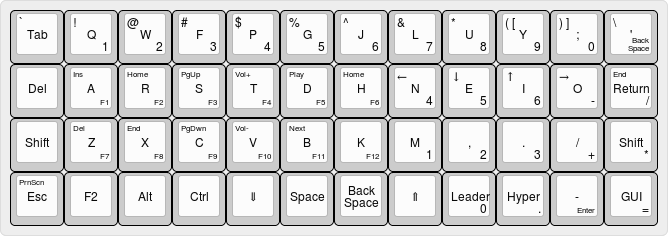
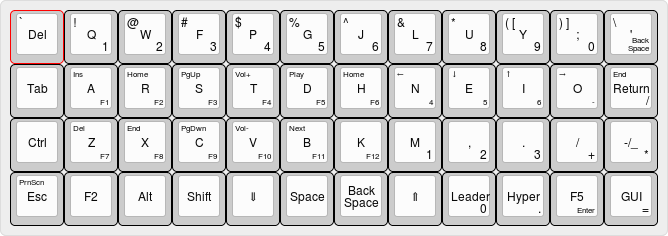
made more consitent with ergodox build.

diff --git a/keymap.c b/keymap.c
@@ -52,9 +52,11 @@ enum custom_keycodes{
 
 /* Lead Variables */
 
-const char USERNAME[80] = "joshua.bragge";
-const char DB[80] = "joshua.bragge.db";
-const char SVR[80] = "joshua.bragge.svr";
+const char JB[15] = "joshua.bragge";
+const char DB[20] = "joshua.bragge.db";
+const char SVR[20] = "joshua.bragge.svr";
+const char SCD[10] = "[SCD]";
+const char FROM[10] = "from:";
 
 #define LOWER MO(_LOWER)
 #define RAISE MO(_RAISE)
@@ -81,20 +83,20 @@ const uint16_t PROGMEM keymaps[][MATRIX_ROWS][MATRIX_COLS] = {
 
 /* Colemak
  * ,-----------------------------------------------------------------------------------.
- * | Tab  |   Q  |   W  |   F  |   P  |   G  |   J  |   L  |   U  |   Y  |  ;/: |  '   |
+ * | Del  |   Q  |   W  |   F  |   P  |   G  |   J  |   L  |   U  |   Y  |  ;/: |  '   |
  * |------+------+------+------+------+-------------+------+------+------+------+------|
- * | Del  |   A  |   R  |   S  |   T  |   D  |   H  |   N  |   E  |   I  |   O  |Enter |
+ * | Tab  |   A  |   R  |   S  |   T  |   D  |   H  |   N  |   E  |   I  |   O  |Enter |
  * |------+------+------+------+------+------|------+------+------+------+------+------|
- * |LShift|   Z  |   X  |   C  |   V  |   B  |   K  |   M  |   ,  |   .  |   /  |RShift|
+ * | Ctrl |   Z  |   X  |   C  |   V  |   B  |   K  |   M  |   ,  |   .  |   /  |  -/_ |
  * |------+------+------+------+------+------+------+------+------+------+------+------|
- * |Esc/F4|  F2  | Alt  | Ctrl |Lower |Space | Bksp |Raise | LEAD | HYPER|  -/_ | GUI  |
+ * |Esc/F4|  F2  | Alt  |LShift|Lower |Space | Bksp |Raise | LEAD | HYPER|  F5  | GUI  |
  * `-----------------------------------------------------------------------------------'
  */
 [_COLEMAK] = LAYOUT_planck_grid(
     KC_DEL,        KC_Q,    KC_W,    KC_F,    KC_P,    KC_G,    KC_J,    KC_L,    KC_U,    KC_Y,    TD(CT_COL), KC_QUOT,
     KC_TAB,        KC_A,    KC_R,    KC_S,    KC_T,    KC_D,    KC_H,    KC_N,    KC_E,    KC_I,    KC_O,    KC_ENT,
-    KC_LSFT,       KC_Z,    KC_X,    KC_C,    KC_V,    KC_B,    KC_K,    KC_M,    KC_COMM, KC_DOT,  KC_SLSH, KC_RSFT ,
-    TD(CT_ESCF4),  KC_F2, KC_LALT,  KC_LCTL, LOWER,   KC_SPACE,  KC_BSPC,  RAISE,   KC_LEAD, KC_HYPR, TD(CT_UNDER), KC_LGUI
+    KC_LCTL,       KC_Z,    KC_X,    KC_C,    KC_V,    KC_B,    KC_K,    KC_M,    KC_COMM, KC_DOT,  KC_SLSH, TD(CT_UNDER),
+    TD(CT_ESCF4),  KC_F2, KC_LALT,  KC_LSFT, LOWER,   KC_SPACE,  KC_BSPC,  RAISE,   KC_LEAD, KC_HYPR, KC_F5, KC_LGUI
 ),
 
 /* Dvorak
@@ -135,9 +137,9 @@ const uint16_t PROGMEM keymaps[][MATRIX_ROWS][MATRIX_COLS] = {
 
 /* Lower
  * ,-----------------------------------------------------------------------------------.
- * |      |   1  |   2  |   3  |   4  |   5  |   6  |   7  |   8  |   9  |   0  | Bksp |
+ * | Del  |   1  |   2  |   3  |   4  |   5  |   6  |   7  |   8  |   9  |   0  | Bksp |
  * |------+------+------+------+------+-------------+------+------+------+------+------|
- * | Del  |  F1  |  F2  |  F3  |  F4  |  F5  |  F6  |   4  |   5  |   6  |  -   |  /   |
+ * |      |  F1  |  F2  |  F3  |  F4  |  F5  |  F6  |   4  |   5  |   6  |  -   |  /   |
  * |------+------+------+------+------+------|------+------+------+------+------+------|
  * |      |  F7  |  F8  |  F9  |  F10 |  F11 |  F12 |   1  |   2  |   3  |  +   |  *   |
  * |------+------+------+------+------+------+------+------+------+------+------+------|
@@ -146,7 +148,7 @@ const uint16_t PROGMEM keymaps[][MATRIX_ROWS][MATRIX_COLS] = {
  */
 [_LOWER] = LAYOUT_planck_grid(
     _______,  KC_1,    KC_2,    KC_3,    KC_4,    KC_5,    KC_6,    KC_7,    KC_8,    KC_9,    KC_0,    KC_BSPC,
-    KC_DEL,  KC_F1,   KC_F2,   KC_F3,   KC_F4,   KC_F5,   KC_F6,   KC_4,    KC_5,    KC_6, KC_MINS, KC_SLSH,
+    _______,  KC_F1,   KC_F2,   KC_F3,   KC_F4,   KC_F5,   KC_F6,   KC_4,    KC_5,    KC_6, KC_MINS, KC_SLSH,
     _______, KC_F7,   KC_F8,   KC_F9,   KC_F10,  KC_F11,  KC_F12,  KC_1,    KC_2,    KC_3, KC_PLUS, KC_ASTR,
     _______, _______, _______, _______, _______, _______, _______, _______, KC_0, KC_DOT, KC_KP_ENTER, KC_EQL
 ),
@@ -408,10 +410,10 @@ void matrix_scan_user(void) {
         leader_end();
 
         SEQ_ONE_KEY(KC_U){
-          register_code(KC_DELT);
+          register_code(KC_DEL);
           register_code(KC_LALT);
           register_code(KC_LCTRL);
-          unregister_code(KC_DELT);
+          unregister_code(KC_DEL);
           unregister_code(KC_LALT);
           unregister_code(KC_LCTRL);
         }
@@ -422,13 +424,13 @@ void matrix_scan_user(void) {
           unregister_code(KC_L);
         }
         SEQ_ONE_KEY(KC_F){
-          SEND_STRING("from:");
+          send_string(FROM);
         }
 
         SEQ_THREE_KEYS(KC_M, KC_E, KC_H) {
         }
-        SEQ_THREE_KEYS(KC_S, KC_C, KC_D) {
-          SEND_STRING("[SCD]");
+        SEQ_ONE_KEY(KC_S) {
+          send_string(SCD);
         }
         SEQ_THREE_KEYS(KC_S, KC_V, KC_R) {
           send_string(SVR);
@@ -437,7 +439,7 @@ void matrix_scan_user(void) {
           send_string(DB);
         }
         SEQ_TWO_KEYS(KC_J, KC_B) {
-          send_string(USERNAME);
+          send_string(JB);
         }    
       }
   #endif

diff --git a/NEWS.md b/NEWS.md
@@ -2,8 +2,14 @@
 
 ## v1.3 
 
+*2018-12-09*
+- changed `LSHIFT` with `CTRL` to be more consistent with ergodox.
+- moved `-` to `RSHIFT` to be more consistent with ergodox.
+- added `F5` to main layer to be more consistent with ergodox.
+- moved `DEL` on lower layer to be more consistent with base.
+
 *2018-12-03*
-- change places with `DEL` and `TAB` to be consistent with ergodox build.
+- change places with `DEL` and `TAB` to be consistent with ergodox.
 
 ## v1.2
 
